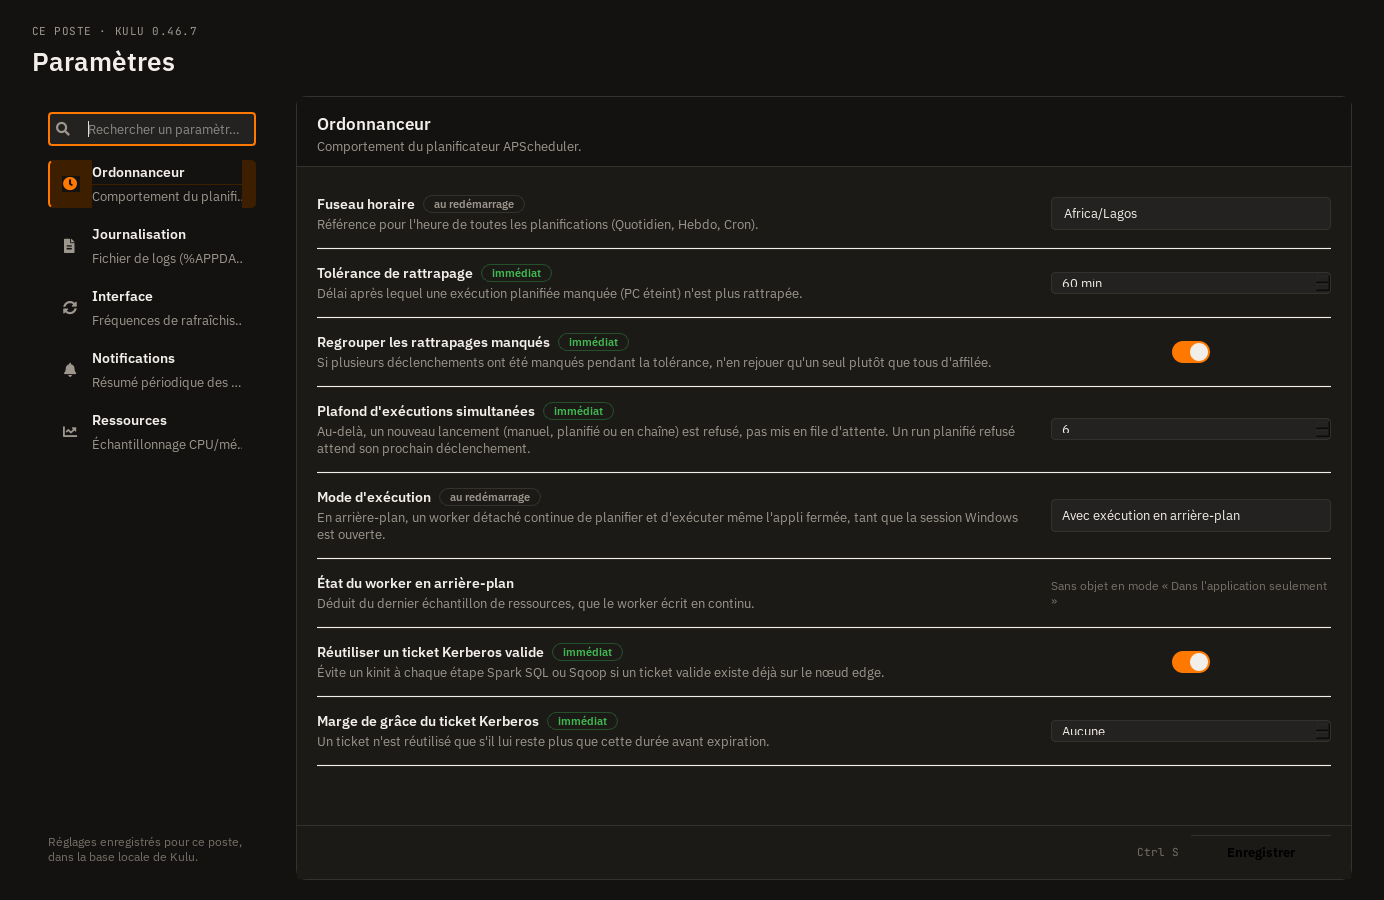
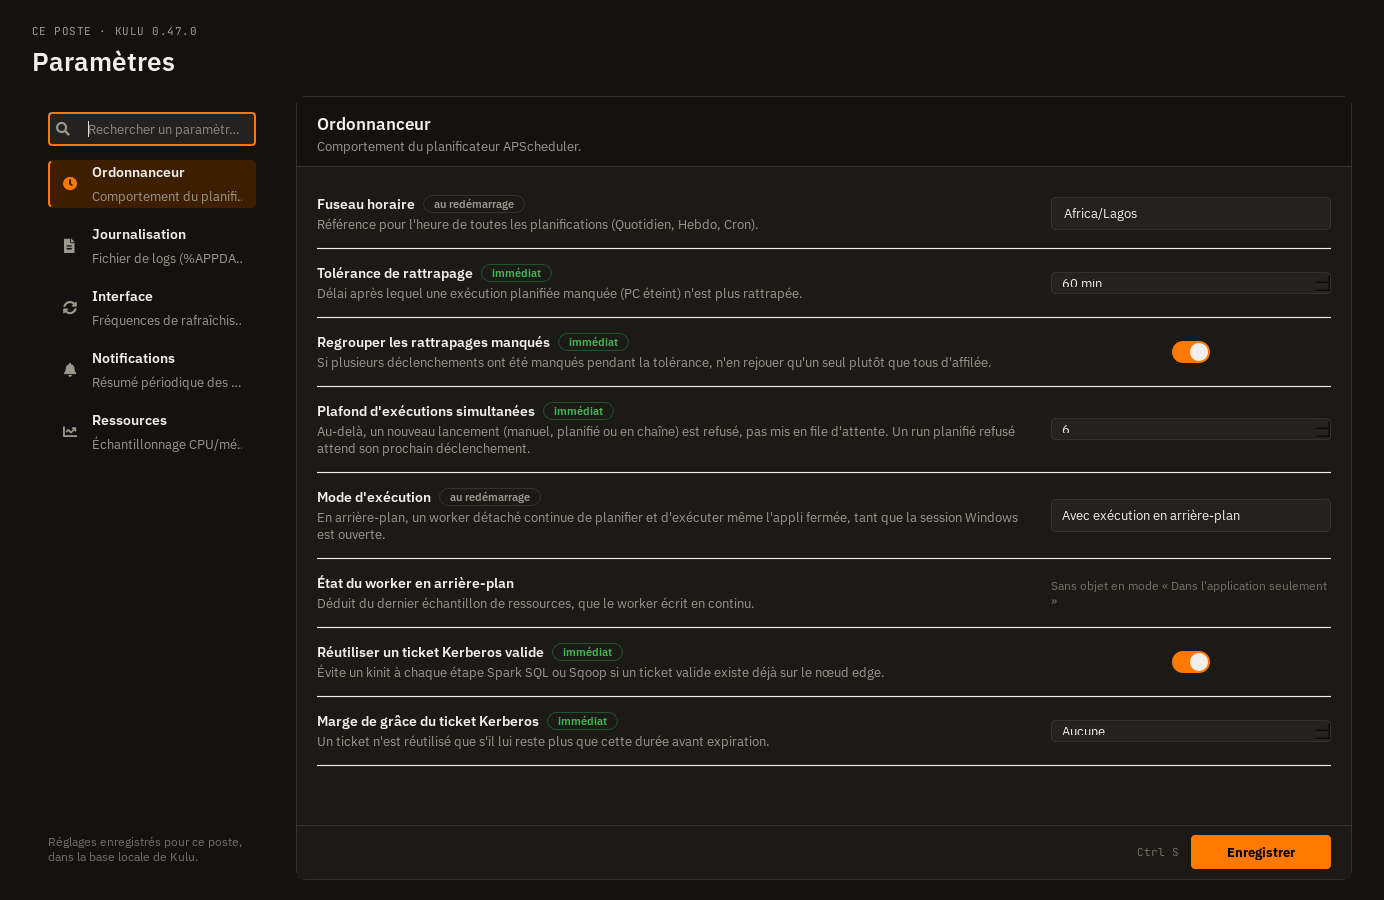
fix(lot-A-parametres): corrige 3 bugs visuels signales (rail, bouton Enregistrer, indice Echap)
Le rectangle sombre derriere le texte de la categorie active persistait malgre
la correction precedente : cause racine identifiee comme la regle globale
QWidget { background-color: bg_main } qui peint un fond opaque derriere tout
QLabel sans son propre `background: transparent`, flagrant sur le rail actif
(bg_active). Corrige en ajoutant `background: transparent` a tous les labels
concernes (rail, lignes, pied, worker status, bandeau).

Le bouton Enregistrer n'avait pas son fond accent : footer_wrap posait un
`setStyleSheet("background: ...")` sans selecteur, qui se propageait a ses
descendants et ecrasait la regle globale QPushButton { background-color:
accent }. Corrige en scopant footer_wrap/title_wrap a un selecteur d'ID
(QWidget#settings_footer), meme traitement que settings_panel.

Troisieme bug trouve pendant la relecture complete contre les maquettes
Parametres*.png : l'indice "Echap" de la ligne d'aide de recherche restait
invisible car FONT_MONO_STACK contient des guillemets doubles qui terminaient
prematurement l'attribut style="..." dans lequel il etait injecte - corrige
en guillemets simples.

Note d'impact et captures officielles mises a jour en consequence. Suite
complete verte (1611 passed).

Changed region(s): [[0.0311, 0.1556, 0.1864, 0.2489], [0.8389, 0.9022, 0.9632, 0.9644]]

diff --git a/ui/main_window/settings_view.py b/ui/main_window/settings_view.py
@@ -59,6 +59,18 @@ _BADGE_INFO = {
 }
 
 
+def _hide_before_first_show(widget):
+    """setVisible(False) sans danger sur un widget jamais encore affiché. Un widget masqué avant
+    d'avoir jamais traversé une passe de mise en page garde la géométrie par défaut de Qt
+    (0,0,640,480) — un layout n'y touche plus une fois masqué, il ne la corrigera jamais tout
+    seul. QWidget.grab() a été constaté fuyant ce rectangle resté par défaut dans la capture
+    malgré isVisible()==False (bug réel, reproduit et corrigé, pas une supposition). Un
+    redimensionnement minimal avant le masquage suffit : une fois rendu visible plus tard, le
+    layout reprend la main et lui donne sa vraie taille normalement."""
+    widget.resize(1, 1)
+    widget.setVisible(False)
+
+
 def _highlight(text: str, query: str) -> str:
     """Rich text (A5, Parametres-recherche.html) : entoure chaque occurrence de `query` (recherche
     insensible à la casse, casse d'origine du texte préservée) d'un <mark>. Sans query, renvoie le
@@ -167,7 +179,8 @@ class SettingsView(QWidget):
         rail_footer = QLabel(
             "Réglages enregistrés pour ce poste, dans la base locale de Kulu.")
         rail_footer.setWordWrap(True)
-        rail_footer.setStyleSheet(f"color: {COLORS['text_muted']}; font-size: 11.5px;")
+        rail_footer.setStyleSheet(
+            f"color: {COLORS['text_muted']}; font-size: 11.5px; background: transparent;")
         rail_layout.addWidget(rail_footer)
         return rail
 
@@ -184,16 +197,23 @@ class SettingsView(QWidget):
         layout.setContentsMargins(10, 0, 10, 0)
         layout.setSpacing(10)
 
+        # background: transparent sur chaque QLabel : sans lui, la règle globale `QWidget {
+        # background-color: bg_main }` (widgets.py::GLOBAL_STYLE) peint un rectangle opaque
+        # bg_main derrière le texte, visible comme un encart sombre dès que la ligne elle-même a
+        # un fond différent (bg_active ici) — bug constaté à l'écran, reproduit isolément.
         icon_lbl = QLabel()
         icon_lbl.setFixedWidth(18)
+        icon_lbl.setStyleSheet("background: transparent;")
         layout.addWidget(icon_lbl, alignment=Qt.AlignVCenter)
 
         text_col = QVBoxLayout(); text_col.setSpacing(1)
         name_lbl = QLabel(cat["label"])
-        name_lbl.setStyleSheet(f"color: {COLORS['text_main']}; font-size: 13.5px; font-weight: 600;")
+        name_lbl.setStyleSheet(
+            f"color: {COLORS['text_main']}; font-size: 13.5px; font-weight: 600; "
+            f"background: transparent;")
         text_col.addWidget(name_lbl)
         sub_lbl = QLabel()
-        sub_lbl.setStyleSheet(f"color: {COLORS['text_dim']};")
+        sub_lbl.setStyleSheet(f"color: {COLORS['text_dim']}; background: transparent;")
         sub_font = sub_lbl.font(); sub_font.setPixelSize(12)
         sub_lbl.setFont(sub_font)
         sub_lbl.setFixedWidth(_CATEGORY_SUB_WIDTH)
@@ -204,8 +224,16 @@ class SettingsView(QWidget):
         layout.addLayout(text_col, 1)
 
         count_lbl = QLabel("")
+        # Taille fixe explicite : un QLabel masqué via setVisible(False) avant d'avoir jamais été
+        # affiché garde sa géométrie Qt par défaut (0,0,640,480) — un vrai bug de rendu Qt/
+        # plateforme offscreen a été constaté avec QWidget.grab() : ce widget masqué "depuis sa
+        # naissance" fuyait un rectangle visible dans la capture malgré isVisible()==False. Une
+        # taille raisonnable fixée dès la construction élimine le problème (vérifié).
+        count_lbl.setFixedSize(26, 16)
+        count_lbl.setAlignment(Qt.AlignCenter)
         count_lbl.setStyleSheet(
-            f"color: {COLORS['signal_pale']}; font-size: 11px; font-family: {FONT_MONO_STACK};"
+            f"color: {COLORS['signal_pale']}; font-size: 11px; font-family: {FONT_MONO_STACK}; "
+            f"background: transparent;"
         )
         count_lbl.setVisible(False)
         layout.addWidget(count_lbl, alignment=Qt.AlignVCenter)
@@ -231,13 +259,20 @@ class SettingsView(QWidget):
         col.setSpacing(0)
 
         title_wrap = QWidget()
-        title_wrap.setStyleSheet(f"border-bottom: 1px solid {COLORS['border']};")
+        title_wrap.setObjectName("settings_title_wrap")
+        # Sélecteur d'ID, pas une règle nue : une règle `widget.setStyleSheet("...")` sans
+        # sélecteur se propage à TOUS les descendants pour les propriétés qu'ils ne fixent pas
+        # eux-mêmes (confirmé isolément) — ici "border-bottom" aurait pu déteindre, et ailleurs
+        # (footer_wrap) une règle nue a bien écrasé le fond du bouton Enregistrer (bug constaté).
+        title_wrap.setStyleSheet(
+            f"QWidget#settings_title_wrap {{ border-bottom: 1px solid {COLORS['border']}; }}")
         self._detail_title = QLabel()
         self._detail_title.setStyleSheet(
             f"color: {COLORS['text_main']}; font-size: {FONT_SIZES['panel_title']}px; font-weight: 600; "
-            f"border: none;")
+            f"border: none; background: transparent;")
         self._detail_sub = QLabel()
-        self._detail_sub.setStyleSheet(f"color: {COLORS['text_dim']}; font-size: 12.5px; border: none;")
+        self._detail_sub.setStyleSheet(
+            f"color: {COLORS['text_dim']}; font-size: 12.5px; border: none; background: transparent;")
         self._detail_sub.setWordWrap(True)
 
         title_block = QVBoxLayout(title_wrap)
@@ -249,9 +284,10 @@ class SettingsView(QWidget):
 
         self._search_help_lbl = QLabel("")
         self._search_help_lbl.setTextFormat(Qt.RichText)
-        self._search_help_lbl.setStyleSheet(f"color: {COLORS['text_dim']}; font-size: 12px;")
+        self._search_help_lbl.setStyleSheet(
+            f"color: {COLORS['text_dim']}; font-size: 12px; background: transparent;")
         self._search_help_lbl.setContentsMargins(20, 0, 20, 6)
-        self._search_help_lbl.setVisible(False)
+        _hide_before_first_show(self._search_help_lbl)
         col.addWidget(self._search_help_lbl)
 
         self._failure_banner = self._build_failure_banner()
@@ -281,22 +317,28 @@ class SettingsView(QWidget):
         self._rows_layout.addStretch()
 
         footer_wrap = QWidget()
+        footer_wrap.setObjectName("settings_footer")
+        # Sélecteur d'ID, pas une règle nue : confirmé isolément qu'une règle nue ("background: ...")
+        # posée sur ce conteneur écrasait le fond accent du QPushButton#Enregistrer (règle globale
+        # `QPushButton { background-color: accent }` de widgets.py) — le bouton rendait plat, sans
+        # son fond orange, exactement le bug signalé à l'écran.
         footer_wrap.setStyleSheet(
-            f"background: {COLORS['bg_panel']}; border-top: 1px solid {COLORS['border']}; "
-            f"border-radius: 0 0 10px 10px;"
+            f"QWidget#settings_footer {{ background: {COLORS['bg_panel']}; "
+            f"border-top: 1px solid {COLORS['border']}; border-radius: 0 0 10px 10px; }}"
         )
         footer = QHBoxLayout(footer_wrap)
         footer.setContentsMargins(20, 10, 20, 10)
         footer.setSpacing(12)
         self._save_status_lbl = QLabel("")
         self._save_status_lbl.setStyleSheet(
-            f"color: {COLORS['success']}; font-size: 12px; font-weight: 600; border: none;")
+            f"color: {COLORS['success']}; font-size: 12px; font-weight: 600; border: none; "
+            f"background: transparent;")
         footer.addWidget(self._save_status_lbl)
         footer.addStretch()
         ctrl_s_hint = QLabel("Ctrl S")
         ctrl_s_hint.setStyleSheet(
             f"color: {COLORS['text_muted']}; font-size: 11px; font-family: {FONT_MONO_STACK}; "
-            f"border: none;")
+            f"border: none; background: transparent;")
         footer.addWidget(ctrl_s_hint)
         btn_save = QPushButton("Enregistrer")
         btn_save.setFixedHeight(34); btn_save.setMinimumWidth(140)
@@ -324,7 +366,7 @@ class SettingsView(QWidget):
             "créer une tâche planifiée à l'ouverture de session.",
             actions=btn_fermer,
         )
-        banner.setVisible(False)
+        _hide_before_first_show(banner)
         return banner
 
     def _add_row(self, category: str, label: str, desc: str, widget, badge: str | None = None):
@@ -336,7 +378,7 @@ class SettingsView(QWidget):
         text_col = QVBoxLayout(); text_col.setSpacing(3)
         chip = make_info_pill(next(c["label"] for c in _CATEGORIES if c["key"] == category),
                                variant="info")
-        chip.setVisible(False)
+        _hide_before_first_show(chip)
         # alignment=Qt.AlignLeft : sans lui, QVBoxLayout étire le QLabel (fond plein) sur toute
         # la largeur de la colonne — invisible avec l'ancien style (pas de fond), mais flagrant
         # avec le fond de make_info_pill (bug révélé, pas introduit, par ce changement).
@@ -346,7 +388,8 @@ class SettingsView(QWidget):
         lbl = QLabel(label)
         lbl.setTextFormat(Qt.RichText)
         lbl.setStyleSheet(
-            f"color: {COLORS['text_main']}; font-size: {FONT_SIZES['row_label']}px; font-weight: 600;")
+            f"color: {COLORS['text_main']}; font-size: {FONT_SIZES['row_label']}px; font-weight: 600; "
+            f"background: transparent;")
         label_row.addWidget(lbl)
         if badge:
             variant, tooltip = _BADGE_INFO[badge]
@@ -363,7 +406,8 @@ class SettingsView(QWidget):
             desc_lbl = QLabel(desc)
             desc_lbl.setTextFormat(Qt.RichText)
             desc_lbl.setWordWrap(True)
-            desc_lbl.setStyleSheet(f"color: {COLORS['text_dim']}; font-size: 12.5px;")
+            desc_lbl.setStyleSheet(
+                f"color: {COLORS['text_dim']}; font-size: 12.5px; background: transparent;")
             text_col.addWidget(desc_lbl)
 
         row_layout.addLayout(text_col, stretch=1)
@@ -445,7 +489,8 @@ class SettingsView(QWidget):
         self.lbl_worker_status = QLabel("Sans objet en mode « Dans l'application seulement »")
         self.lbl_worker_status.setTextFormat(Qt.RichText)
         self.lbl_worker_status.setWordWrap(True)   # texte plus long que "—" : ne pas le tronquer
-        self.lbl_worker_status.setStyleSheet(f"color: {COLORS['text_muted']}; font-size: 12px;")
+        self.lbl_worker_status.setStyleSheet(
+            f"color: {COLORS['text_muted']}; font-size: 12px; background: transparent;")
         self._add_row("scheduler", "État du worker en arrière-plan",
                        "Déduit du dernier échantillon de ressources, que le worker écrit en "
                        "continu.", self.lbl_worker_status)
@@ -626,7 +671,8 @@ class SettingsView(QWidget):
         settings = db.get_app_settings()
         if settings.execution_mode != "BACKGROUND":
             self.lbl_worker_status.setText("Sans objet en mode « Dans l'application seulement »")
-            self.lbl_worker_status.setStyleSheet(f"color: {COLORS['text_muted']}; font-size: 12px;")
+            self.lbl_worker_status.setStyleSheet(
+                f"color: {COLORS['text_muted']}; font-size: 12px; background: transparent;")
             return
 
         sample = db.get_latest_resource_sample()
@@ -646,7 +692,8 @@ class SettingsView(QWidget):
         """Point coloré en rich text (A6) — même patron que
         dashboard_view.py::_set_legend_text, pas un nouveau composant."""
         self.lbl_worker_status.setText(f'<span style="color:{color};">●</span>&nbsp;{text}')
-        self.lbl_worker_status.setStyleSheet(f"color: {COLORS['text_main']}; font-size: 12px;")
+        self.lbl_worker_status.setStyleSheet(
+            f"color: {COLORS['text_main']}; font-size: 12px; background: transparent;")
 
     # ── Navigation catégories / recherche ─────
 
@@ -722,9 +769,18 @@ class SettingsView(QWidget):
 
         total = sum(counts.values())
         n_categories = sum(1 for c in counts.values() if c)
+        # background-color, pas border : le sous-ensemble de rich text de Qt (QLabel) n'applique
+        # pas "border" sur un <span> inline (confirmé isolément, même famille de limite que <mark>
+        # non supporté) — un fond discret rend la même intention de "touche" que la bordure de la
+        # maquette, sans la garder invisible à l'écran.
+        # Attribut style en quotes simples : FONT_MONO_STACK contient des guillemets doubles
+        # ("JetBrains Mono", "Consolas", monospace) qui, dans un attribut style="..." en
+        # guillemets doubles, terminaient l'attribut prématurément après `font-family:"` — tout le
+        # reste (dont background-color) devenait du texte d'attribut invalide, jamais appliqué.
+        # Confirmé en isolant le rendu (fond invisible malgré une balise correcte en apparence).
         escape_hint = (
-            f'<span style="font-family:{FONT_MONO_STACK}; font-size:10.5px; '
-            f'border:1px solid {COLORS["border"]}; border-radius:4px; padding:0 5px;">Échap</span>'
+            f"<span style='font-family:{FONT_MONO_STACK}; font-size:10.5px; "
+            f"background-color:{COLORS['border']}; border-radius:4px; padding:1px 5px;'>Échap</span>"
         )
         self._search_help_lbl.setText(
             f"{total} réglage{'s' if total > 1 else ''} dans {n_categories} "
@@ -854,7 +910,8 @@ class SettingsView(QWidget):
         # tout risque de blocage en environnement offscreen (tests) où rien ne clique le bouton.
         if background_activation_failed:
             self._save_status_lbl.setStyleSheet(
-                f"color: {COLORS['danger']}; font-size: 12px; font-weight: 600;")
+                f"color: {COLORS['danger']}; font-size: 12px; font-weight: 600; "
+                f"border: none; background: transparent;")
             self._save_status_lbl.setText(
                 "Échec de l'activation du mode arrière-plan (accès refusé) — contactez votre "
                 "support informatique. Le mode « Dans l'application seulement » reste actif."
@@ -862,7 +919,8 @@ class SettingsView(QWidget):
             QTimer.singleShot(10000, lambda: self._save_status_lbl.setText(""))
         else:
             self._save_status_lbl.setStyleSheet(
-                f"color: {COLORS['success']}; font-size: 12px; font-weight: 600;")
+                f"color: {COLORS['success']}; font-size: 12px; font-weight: 600; "
+                f"border: none; background: transparent;")
             self._save_status_lbl.setText(
                 "Enregistré ✓ — certains réglages ne prennent effet qu'au prochain redémarrage.")
             QTimer.singleShot(4000, lambda: self._save_status_lbl.setText(""))

diff --git a/docs/refonte/impact/a-parametres.md b/docs/refonte/impact/a-parametres.md
@@ -97,9 +97,26 @@ commits de ce lot, aucune migration à défaire.
    `role="switch"` sur la maquette, sans badge « proposé ») — construit dans ce lot
    (`ui/components/switch.py`), contrairement à la lecture initiale qui l'avait classé « sans
    consommateur, différé ».
-7. **Artefact visuel résiduel** : un très léger changement de teinte est visible au zoom sur le
-   bord droit de la ligne de catégorie active (capture au-delà de la résolution native). Investigué
-   en profondeur (geométrie de widgets masqués, `border-radius`, règles `:hover`, dépassement de
-   largeur du contenu, cache de style Qt, effets graphiques, tooltips — tous exclus un par un,
-   chacun confirmé non responsable par un test isolé) sans en trouver la cause exacte. Non bloquant
-   (REGLES.md : pixel-exact non exigé), signalé pour trace plutôt que masqué.
+7. **Artefact visuel résiduel (corrigé après relecture utilisateur)** : la première version de la
+   PR laissait un encart sombre visible derrière le texte de la ligne de catégorie active
+   (icône, nom, sous-titre) — signalé par l'utilisateur avec une capture, en plus d'un bouton
+   « Enregistrer » sans son fond accent. Cause racine identifiée et reproduite isolément (script
+   jetable, pixel-sampling) : la règle globale `QWidget { background-color: bg_main }`
+   (`widgets.py::GLOBAL_STYLE`) peint un rectangle opaque derrière CHAQUE `QLabel` qui ne déclare
+   pas son propre `background: transparent` — invisible tant que le label est posé sur `bg_main`
+   ou une teinte proche (`bg_panel`), flagrant dès qu'il est posé sur une teinte contrastée
+   (`bg_active`, le rail actif). Deuxième mécanisme trouvé par la même méthode : une règle QSS
+   posée via `setStyleSheet()` SANS sélecteur sur un conteneur (`footer_wrap`, `title_wrap`) se
+   propage à ses descendants pour les propriétés qu'ils ne fixent pas eux-mêmes — `footer_wrap`
+   écrasait ainsi le fond accent du bouton Enregistrer (règle globale `QPushButton { background-
+   color: accent }`, de spécificité pourtant plus précise mais d'origine plus basse). Corrigé en
+   ajoutant `background: transparent` à chaque `QLabel` du rail et du panneau, et en scopant
+   `footer_wrap`/`title_wrap` à un sélecteur d'ID (même traitement que `settings_panel`/
+   `category_row` au lot précédent). Troisième bug trouvé par la même relecture : l'indice
+   « Échap » de la ligne d'aide de recherche (A5) restait invisible malgré un `<span
+   style="background-color:...">` apparemment correct — `FONT_MONO_STACK` contient des guillemets
+   doubles intégrés, qui terminaient prématurément l'attribut `style="..."` lui-même en
+   guillemets doubles ; corrigé en guillemets simples pour cet attribut HTML. L'« artefact visuel
+   résiduel » documenté précédemment comme non résolu (bord droit de la ligne active) était la
+   même cause racine que le premier bug — confirmé disparu une fois la correction appliquée,
+   plutôt qu'une limite de rendu Qt distincte comme supposé initialement.
